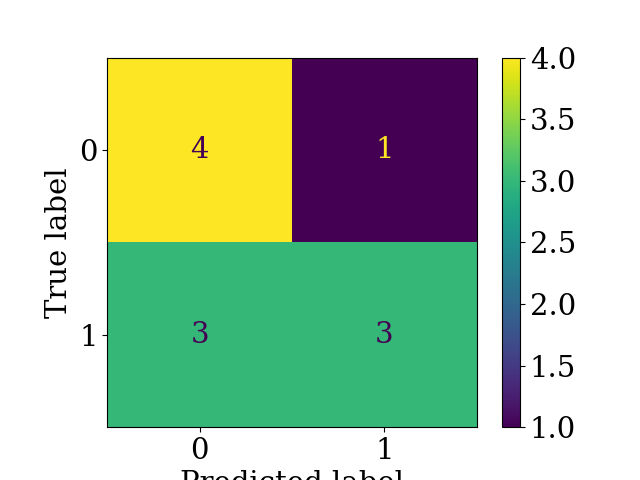
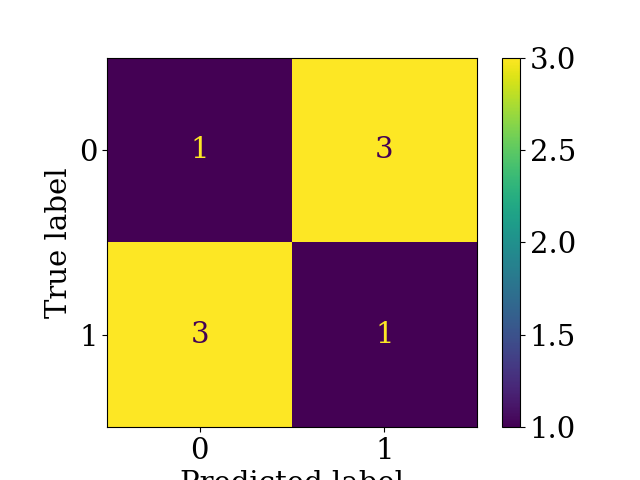
just bad indexing, but it is hard to get results

diff --git a/causal_tracing_whisper2.py b/causal_tracing_whisper2.py
@@ -145,9 +145,9 @@ def train_and_save(models, dataset, generate_wrapper, class_names, grounded_resu
             best_feat = None
 
             all_feat_removed = set()
-            for x in range(100):
-                all_feat_removed.add(tuple(sorted(np.random.choice(np.arange(X_train.shape[1]), size=max(1, X_train.shape[1] - 7) if False else 3, replace=False).tolist())))
-            params = product(list(all_feat_removed)[:10], np.linspace(0.4, 0.7, 2, endpoint=True), np.linspace(0, 1, 10, endpoint=True), np.linspace(0, 0.5, 5, endpoint=True))
+            for x in range(50):
+                all_feat_removed.add(tuple(sorted(np.random.choice(np.arange(X_train.shape[1]), size=max(1, X_train.shape[1] - 4) if False else 3, replace=False).tolist())))
+            params = product(list(all_feat_removed)[:args.num_feat_tries], np.linspace(0.4, 0.7, args.num_train_sizes, endpoint=True), np.linspace(0, 1, 10, endpoint=True) if args.additional_weight > 0 else [0], np.linspace(0, 0.5, 5, endpoint=True) if args.PCA_quantile_threshold is not None else [0])
             #params = product(list(all_feat_removed)[:10], [0.5], [0], [0])
             for feat_removed, train_ratio, additional_weight, PCA_quantile_threshold in params:
                 train_data, test_data, holdout_data, feature_names = generate_wrapper(dataset, train_ratio, additional_weight, PCA_quantile_threshold if PCA_quantile_threshold > 0 else None)
@@ -156,12 +156,12 @@ def train_and_save(models, dataset, generate_wrapper, class_names, grounded_resu
                 X_holdout, y_holdout, inds_holdout, weights_holdout = holdout_data
                 X_train1 = X_train.copy()
                 X_train1[:, feat_removed] = 0
-                beta = 2
+                beta = 1
                 clf = GridSearchCV(model_info["model"], model_info["param_grid"], cv=2, verbose=0, scoring=lambda estimator, X_t, y_t : -np.abs(target_acc-fbeta_score(y_t, estimator.predict(X_t), beta=beta, average='weighted', zero_division = 0.0)))
                 clf.fit(X_train1[weights_train>0], y_train[weights_train>0], sample_weight=weights_train[weights_train>0])
                 y_holdout_pred = clf.predict(X_holdout)
                 fscore = fbeta_score(y_holdout, y_holdout_pred, beta=beta, average='weighted', zero_division = 0.0, sample_weight=weights_holdout)
-                if best_f is None or fscore > best_f:
+                if (best_f is None or fscore > best_f) and fscore < 0.9:
                     best_f = fscore
                     best_clas = clf
                     best_feat = [feature_names[x] for x in sorted(set(range(len(feature_names))).difference(set(feat_removed)))]
@@ -254,7 +254,7 @@ def train_and_save(models, dataset, generate_wrapper, class_names, grounded_resu
     plot_metrics_comparison(metrics_by_model, save_dir)
 
 
-def process_facts2(target_token, facts, class_map, results, corrupted_probs, clean_probs, ids, tokenizer=None):
+def process_facts2(target_token, facts, class_map, results, corrupted_probs, clean_probs, ids, tokenizer=None, allow_id=True):
     for processed_fact in facts:
         clas = class_map(processed_fact)
         corrupted_score = processed_fact["results"]["corrupted"][target_token]["probs"]
@@ -265,7 +265,7 @@ def process_facts2(target_token, facts, class_map, results, corrupted_probs, cle
 
         corrupted_probs[clas].add(corrupted_score)
         clean_probs[clas].add(clean_score)
-        info_dict = {"is_additional": processed_fact["is_additional"] if "is_additional" in processed_fact else 1, "id": int(processed_fact["fact"]["group_id"]) if "group_id" in processed_fact["fact"] and len(processed_fact["fact"]["group_id"]) > 0 else None}
+        info_dict = {"is_additional": processed_fact["is_additional"] if "is_additional" in processed_fact else 1, "id": int(processed_fact["fact"]["group_id"]) if "group_id" in processed_fact["fact"] and len(processed_fact["fact"]["group_id"]) > 0 and allow_id else None}
         ids[clas].append(info_dict)
 
         for kind in ["hidden", "mlp", "attn"]:
@@ -377,7 +377,7 @@ def group_results2(facts_grounded, facts_unfaithful, tokenizer, args):
     facts_unfaithful = [x for x in facts_unfaithful if not filter_facts(x, "unfaithful_token")]
     print("fact_lengths", len(facts_unfaithful), len(facts_grounded))
     process_facts2("unfaithful_token", facts_unfaithful,
-                   lambda x: 0, results, corrupted_probs, clean_probs, ids, tokenizer)
+                   lambda x: 0, results, corrupted_probs, clean_probs, ids, tokenizer, allow_id=args.allow_id)
     print([x["fact"]["object"] for x in facts_grounded if filter_facts(x, "grounded_token")])
     ps = [x["results"]["clean"]["grounded_token"]["probs"] for x in facts_grounded]
     ls = np.linspace(0, 0.5, num_classes)
@@ -390,7 +390,7 @@ def group_results2(facts_grounded, facts_unfaithful, tokenizer, args):
                                                          class_boundaries) if num_classes > 2 else 1
 
     process_facts2("grounded_token", facts_grounded, lambda x: 1 if True else classify(x)
-                   , results, corrupted_probs, clean_probs, ids, tokenizer)
+                   , results, corrupted_probs, clean_probs, ids, tokenizer, allow_id=args.allow_id)
     # print("corrupted_probs, clean_probs", [x.d for x in corrupted_probs], [x.d for x in clean_probs])
     def group(idsx, resultsx, corrupted_probsx, clean_probsx):
         for k, v in list(resultsx.items()):
@@ -785,7 +785,7 @@ class Namespace2:
     def __init__(self):
         self.causal_traces_dir = "./causal_traces"
         self.dataset_name = "ARC_hard"
-        self.model_name = "large"
+        self.model_name = "base"
         self.output_dir = "out"
         features = "all"
         if features == "all":
@@ -799,21 +799,24 @@ class Namespace2:
                                         "cont-last"]
         elif features == "only_important_no_cont_last":
             self.features_to_include = ["subj-first", "subj-middle", "subj-last", "cont-first"]
-        self.kinds_to_include = ["hidden", "mlp"]
-        self.train_ratio = 0.6
+        self.kinds_to_include = ["mlp"] + ([] if False else ["hidden"])
+        self.train_ratio = 0.7
         self.ablation_only_clean = False
         self.ablation_include_corrupted = False
-        self.seed = 2
+        self.seed = 100
         self.num_classes = 2
         self.min_count = 5
         self.separate = False
-        self.target_acc = 0.8
-        self.additional_weight = 0.1
-        self.PCA_quantile_threshold = 0.1
+        self.target_acc = 0.75
+        self.additional_weight = 0
+        self.PCA_quantile_threshold = None
         self.other_dataset_name = ["simple", "transl"] if False else []
         self.other_dataset_name_unsup = ["med"] if False else []
         self.balance = True
         self.balance_w = True
+        self.allow_id = False
+        self.num_feat_tries = 5
+        self.num_train_sizes = 2
 
 
 def main2(models):
@@ -855,6 +858,7 @@ if __name__ == "__main__":
         "DecisionTreeSmall": {
             "model": DecisionTreeClassifier(),
             "param_grid": {
+                ""
                 "max_depth": [2, 3],
                 "min_samples_split": [2, 4, 8],
                 "min_samples_leaf": [2, 4, 8],
@@ -867,7 +871,7 @@ if __name__ == "__main__":
             "model": LogisticRegression(max_iter=1000, solver="liblinear"),
             "param_grid": {"C": [0.001, 0.01, 0.1, 1, 10, 100, 1000], "penalty": ["l1", "l2"]},
         }
-    if False:
+    if True:
         models["DecisionTree"] = {
             "model": DecisionTreeClassifier(),
             "param_grid": {

diff --git a/causal_tracing_whisper1.py b/causal_tracing_whisper1.py
@@ -132,7 +132,7 @@ def fine_tuning(model: LlamaForCausalLM, tokenizer: LlamaTokenizer, prompt, devi
             ).last_hidden_state
             decoder_input = torch.tensor([[model.model.config.decoder_start_token_id] + tokenizer.encode(
                 decoder_input_text, add_special_tokens=False)], device=device)
-            train_all = True
+            train_all = False
             labels = torch.cat(
                 [torch.full_like(decoder_input, -100)[:, 1:], torch.tensor([[target]], device=device)],
                 -1) if not train_all else torch.tensor([[model.model.config.decoder_start_token_id] + tokenizer.encode(
@@ -353,23 +353,21 @@ class ModelForwarderEncDec:
 
         return embedding
 
-    def forward(self, model: T5ForConditionalGeneration, tokenizer: T5Tokenizer, prompt, device, repeat, obj):
+    def forward(self, model: T5ForConditionalGeneration, tokenizer: T5Tokenizer, prompt, device, repeat, obj, range_to_mask=None):
         encoder_input_text, decoder_input_text = prompt.split("<pad>")
         with torch.no_grad():
             encoder_outputs = self.get_encoder_outputs(model, tokenizer, prompt, device)
             decoder_input = torch.tensor([[model.model.config.decoder_start_token_id] + tokenizer.encode(
                 decoder_input_text, add_special_tokens=False)], device=device)
-            print(repeat, decoder_input.size())
             encoder_outputs = torch.cat([encoder_outputs] * 2, 0) if repeat else encoder_outputs
-            print(encoder_outputs.size())
 
             if self.adaptor is not None:
                 #model.model = make_peft_model(model.model, model.modules)
                 #model.model.load_adapter(self.adaptor, "default")
                 model.load(self.adaptor)
+            di = torch.cat([decoder_input] * 2, 0) if repeat else decoder_input
             output_dict = model.model.forward(encoder_outputs=(encoder_outputs,),
-                                              decoder_input_ids=torch.cat([decoder_input] * 2,
-                                                                          0) if repeat else decoder_input,
+                                              decoder_input_ids=di,
                                               return_dict=True)
             if self.adaptor is not None:
                 #model.model = model.model.unload()
@@ -491,8 +489,9 @@ def process_entry(causal_tracer: MaskedCausalTracer, prompt: str, subject: str, 
     output = dict()
 
     embedding_module_name = get_module_name(causal_tracer.model.model, "embed", 0)
-    subject_tokens_range = find_substring_range(causal_tracer.tokenizer, prompt, subject)
-
+    edited = causal_tracer.model_forwarder.edit_prompt(prompt)[1] if hasattr(
+                                                             causal_tracer.model_forwarder, "edit_prompt") else prompt
+    subject_tokens_range = find_substring_range(causal_tracer.tokenizer, edited, subject)
     string_ids = causal_tracer.tokenizer(
         prompt,
         return_tensors=None,
@@ -500,7 +499,7 @@ def process_entry(causal_tracer: MaskedCausalTracer, prompt: str, subject: str, 
     )["input_ids"]
     tokens = causal_tracer.tokenizer.convert_ids_to_tokens(string_ids)
     if args.output_object_tokens_range:
-        object_tokens_range, _ = find_all_substring_range(causal_tracer.tokenizer, prompt.replace("<pad>", " "), obj)
+        object_tokens_range, _ = find_all_substring_range(causal_tracer.tokenizer, edited.replace("<pad>", " "), obj)
         output["object_tokens_range"] = object_tokens_range
     output["subject_tokens_range"] = subject_tokens_range
 
@@ -524,7 +523,7 @@ def process_entry(causal_tracer: MaskedCausalTracer, prompt: str, subject: str, 
 
     # Get patched runs results
     num_tokens = get_num_tokens(causal_tracer.tokenizer,
-                                prompt.replace("\\\\n",
+                                edited.replace("\\\\n",
                                                " "))  # -1 should not be necessary and it does not belong here for models other than Whisper
     output["results"]["tokens"] = list()
     # We start the loop from the first subject token as patching previous tokens has no effect
@@ -542,8 +541,9 @@ def process_entry(causal_tracer: MaskedCausalTracer, prompt: str, subject: str, 
         if subject_tokens_range[0] <= token_i < subject_tokens_range[1]:
             d["subject_pos"] = token_i - subject_tokens_range[1]
         nl = get_num_layers(causal_tracer.model)
+        quantiles = get_quantiles(np.arange(1, nl + 1))
         params = [(kind, last_layer) for kind in ["hidden", "mlp", "attn"] for
-                  last_layer in get_quantiles(np.arange(1, nl + 1))]
+                  last_layer in quantiles]
         patches = [(0, len(tokens))]
         params_all = [(kind, last_layer, patch) for kind, last_layer in params
                       for patch in patches]
@@ -638,7 +638,7 @@ def run_causal_tracing_analysis(
                                     "prompt": prompt,
                                     "adaptor": None,
                                     "num_steps": num_steps,
-                                    "group_id": fact.group_id
+                                    "group_id": str(fact.group_id)
                                 },
                             }
                         )
@@ -675,7 +675,7 @@ def run_causal_tracing_analysis(
                                 "adaptor": adaptor if adaptor is None or isinstance(adaptor,
                                                                                     str) else adaptor.cpu().numpy().tolist(),
                                 "num_steps": num_steps,
-                                "group_id": fact.group_id
+                                "group_id": str(fact.group_id)
                             },
                         }
                     )
@@ -823,7 +823,7 @@ class Namespace1:
     def __init__(self):
         self.token = os.environ.get("HUGGINGFACE_TOKEN")
         self.fakepedia_path = "fakepedia_arc_hard_with_ir_dev.json"
-        ms = ["allenai/unifiedqa-t5-base", "google/gemma-3-1b-pt", "unsloth/Llama-3.2-1B-unsloth-bnb-4bit",
+        ms = ["allenai/unifiedqa-t5-large", "google/gemma-3-1b-pt", "unsloth/Llama-3.2-1B-unsloth-bnb-4bit",
               "unsloth/Llama-3.2-1B-Instruct-unsloth-bnb-4bit",
               "unsloth/Llama-3.2-1B-unsloth-bnb-4bit",
               "meta-llama/Llama-3.2-1B", "google/gemma-3-1b-pt", "deepseek-ai/DeepSeek-R1-Distill-Qwen-1.5B"]
@@ -834,18 +834,27 @@ class Namespace1:
         self.prepend_space = True
         self.bfloat16 = False
         self.resume_dir = "ARC_hard"
-        self.subset_size = 10
+        self.subset_size = 1000000
         self.skip_creation = False
         self.forwarder_kind = "encdec"
         self.grounded_first = False
         self.output_object_tokens_range = False
         self.use_cache = False
         self.not_grounded_is_hallucinated = False
-        self.max_steps = 0
+        self.max_steps = 10
+        self.auto_delete = True
 
 
 if __name__ == "__main__":
+
     torch.cuda.empty_cache()
     args = Namespace1()
     freeze_args(args)
+    if args.auto_delete:
+        p1 = os.path.join(args.resume_dir, "00", "grounded.json")
+        if os.path.exists(p1):
+            os.remove(p1)
+        p2 = os.path.join(args.resume_dir, "00", "unfaithful.json")
+        if os.path.exists(p2):
+            os.remove(p2)
     run_causal_tracing(args)

diff --git a/causal_tracing_whisper.py b/causal_tracing_whisper.py
@@ -71,7 +71,7 @@ class Fact:
         self.intermediate_paragraph = kwargs.get("intermediate_paragraph", "")
         self.adaptor = kwargs.get("adaptor", [])
         self.num_steps = kwargs.get("num_steps", 0)
-        self.group_id = kwargs.get("group_id", "")
+        self.group_id = str(kwargs.get("group_id", ""))
         self.fact_parent = kwargs.get("fact_parent", None)
 
     def get_subject(self) -> str:
@@ -282,7 +282,7 @@ def get_next_token(model, tokenizer, prompt, device, model_forwarder, repeat, ob
 
 
 def get_next_token_probabilities(
-        model, tokenizer, prompt: str, target_tokens: Union[str, List[str]], device, model_forwarder, repeat, obj
+        model, tokenizer, prompt: str, target_tokens: Union[str, List[str]], device, model_forwarder, repeat, obj, range_to_mask=None
 ):
     # Make input as list of strings if a single string was given
 
@@ -294,7 +294,7 @@ def get_next_token_probabilities(
 
     # Feed model
     with torch.no_grad():
-        next_token_logits = model_forwarder.forward(model, tokenizer, prompt, device, repeat, obj)["logits"][:, -1, :]
+        next_token_logits = model_forwarder.forward(model, tokenizer, prompt, device, repeat, obj, range_to_mask)["logits"][:, -1, :]
 
     # Extract target token logits and probabilities
     target_token_probs = torch.softmax(next_token_logits, dim=-1)[:, target_token_ids]
@@ -368,16 +368,17 @@ def get_module_name(model, kind, num=None):
         if kind == "embed":
             return "shared"
         if kind == "attn":
-            kind = "self_attn"
+            kind = "layer.0.SelfAttention"
         if kind == "mlp":
-            kind = "fc2"
-        return f'model.model.decoder.layers.{num}{"" if kind == "hidden" else "." + kind}'
+            kind = "layer.2"
+        return f'decoder.block.{num}{"" if kind == "hidden" else "." + kind}'
     assert False, "unknown transformer structure"
 
 
 def get_num_layers(model):
-    return len(
-        [n for n, m in model.model.named_modules() if (re.match(r"^(transformer|model|model.model.decoder)\.(h|layers)\.\d+$", n))])
+    l = len(
+        [n for n, m in model.model.named_modules() if (re.match(r"^(transformer|model|model.model.decoder|model.decoder|decoder)\.(h|layers|block)\.\d+$", n))])
+    return l
 
 
 def get_num_tokens(tokenizer, string):
@@ -445,7 +446,6 @@ class MaskedCausalTracer:
 
         # Add embedding hook
         def hook_embedding(module, input, output):
-            print("output.shape", output.shape)
             if output.shape[0] != 2:
                 return output
             output[1, range_to_mask[0]: range_to_mask[1]] = self.mask_token_embedding.clone()
@@ -459,9 +459,9 @@ class MaskedCausalTracer:
         for token_to_restore, modules_to_restore in states_to_patch:
             for module_name in modules_to_restore:
                 def restoring_hook(module, input, output):
-                    if output.shape[0] != 2:
-                        return output
                     h = untuple(output)
+                    if h.shape[0] != 2:
+                        return output
                     h[1, token_to_restore] = h[0, token_to_restore].clone()
                     return output
 
@@ -472,7 +472,7 @@ class MaskedCausalTracer:
             if self.do_cache and self.model_forwarder.cache is None:
                 self.model_forwarder.make_cache(self.model, self.tokenizer, prompt, min([x[0] for x in states_to_patch]), self.device, True, obj)
             probs = get_next_token_probabilities(self.model, self.tokenizer, prompt, target_tokens, self.device,
-                                                 self.model_forwarder, True, obj)
+                                                 self.model_forwarder, True, obj, range_to_mask)
             clean_probs = probs[0, :]
             corrupted_probs = probs[1, :]
 
